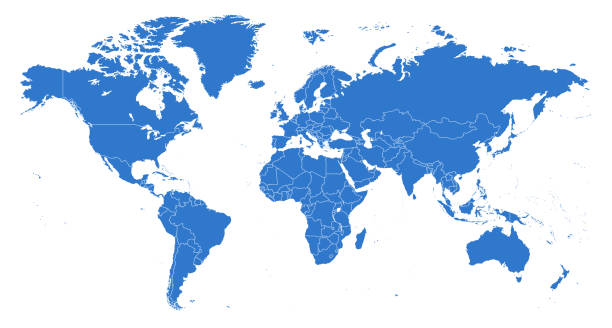
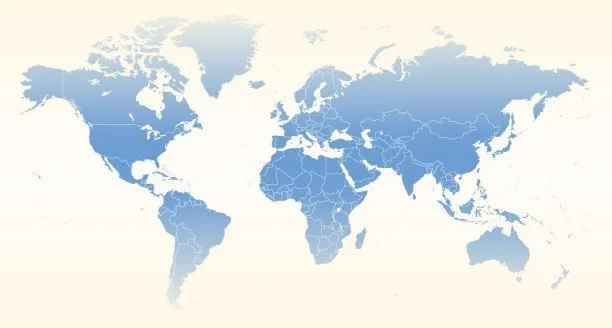
更新 0.10
新增政黨總界面並對領土界面圖片進行修改

diff --git a/subpages/parties.html b/subpages/parties.html
@@ -93,35 +93,28 @@
             
         </section>
         <section>
-            <div class="flex_container mapbg" style="height: 200px; align-items: center; justify-content: center;">
-                <h1 style="color: white; font-size: 3em; text-shadow: 2px 2px 4px #000000;">疆域 - Territory</h1>
+            <div class="flex_container parliamentbg" style="height: 200px; align-items: center; justify-content: center;">
+                <h1 style="color: white; font-size: 3em; text-shadow: 2px 2px 4px black;">政黨 - Political Parties</h1>
             </div>
             <div class="flex_container">
-                <div class="flex_column2 rounded-container">
-                    <h1 class="centered">本帝國疆域概況</h1>
-                    <h2 class="centered">本土疆域</h2>
-                    <p>
-                        N/A
-                    </p>
-                    <h2 class="centered">海外疆域</h2>
-                    <p>
-                        本帝國對外擁有多處海外領地，分布於不同洲際，以促進本帝國的國際影響力及經濟發展。這些海外領地包括：(截至西元2023年1月23日)<br>
-                        <ul>
-                            <li>大洋洲 - 陽屬袋鼠王國 (Sun's Kangaroo Kingdom, Oceania)</li>
-                            <li>北美洲 - 陽屬楊氏保護國 (Sun's Yang Protectorate, North America)</li>
-                            <li>亞洲 - 滿洲地區 (Manchurian Region, Asia)</li>
-                        </ul>
-                    </p>
-                </div>
+                <div class="flex_column2">
+                    <div class="rounded-container">
+                        <h1>簡介</h1>
+                        政黨是大陽聯合帝國民主體系中的重要組成部分，代表著不同的政治理念和政策主張。支持人民積極參與政治，通過加入適合自己意向的政黨，為國家未來發展貢獻力量。
+                    </div>
+                    <div class="rounded-container">
+                        <h2>目前正式註冊政黨</h2>
+                        <ul id="party-lists"></ul>
+                    </div>
+                    </div>
                 <div class="flex_column1 rounded-container centered">
-                    <h2>點擊圖片以放大</h2>
-                    <h1>本帝國本土疆域</h1>
-                    <img src="../images/territory.png" style="width: 100%;
-    height: auto; cursor:pointer;" onclick="window.open('../images/territory.png', '_blank');">
-                    <hr>
-                    <h1>本帝國海外疆域</h1>
-                    <img src="../images/overseas.png" style="width: 100%;
-    height: auto; cursor:pointer;" onclick="window.open('../images/overseas.png', '_blank');">
+                    <h2>如何創建政黨？</h2>
+                    <ul>
+                        <li>
+                            於國民事務中心辦理申請手續，提交政黨資料及相關文件。
+                        </li>
+
+                    </ul>
                 </div>
             </div>
         </section>

diff --git a/post.html b/post.html
@@ -1,5 +1,5 @@
-<html>
-        <head>
+<html lang="zh-TW">
+    <head>
         <!-- Setup -->
         <meta charset="UTF-8">
         <meta name="viewport" content="width=device-width, initial-scale=1.0">
@@ -13,10 +13,9 @@
 
         <!-- Javascript -->
         <script src="javascript/hyperlink.js" defer></script>
-        <script src="javascript/post.js" defer></script>
 
         <!-- Info -->
-        <title>大陽帝國</title>
+        <title>大陽聯合帝國</title>
         <link rel="icon" type="image/png" href="images/national_emblem.png">
     </head>
     <body>
@@ -76,7 +75,7 @@
                                 <button class="dropbtn">皇室</button>
                             </td>
                             <td class="dropdown">
-                                <button class="dropbtn">政黨</button>
+                                <a href="subpages/parties.html"><button class="dropbtn">政黨</button></a>
                             </td>
                             <td class="dropdown">
                                 <button class="dropbtn">法律</button>

diff --git a/forum.html b/forum.html
@@ -10,10 +10,10 @@
         <!-- CSS Stylesheets -->
         <link rel="stylesheet" href="css/general.css">
         <link rel="stylesheet" href="css/modules.css">
-        <link rel="stylesheet" href="css/forum.css">
 
         <!-- Javascript -->
         <script src="javascript/hyperlink.js" defer></script>
+
         <!-- Info -->
         <title>大陽聯合帝國</title>
         <link rel="icon" type="image/png" href="images/national_emblem.png">
@@ -75,7 +75,7 @@
                                 <button class="dropbtn">皇室</button>
                             </td>
                             <td class="dropdown">
-                                <button class="dropbtn">政黨</button>
+                                <a href="subpages/parties.html"><button class="dropbtn">政黨</button></a>
                             </td>
                             <td class="dropdown">
                                 <button class="dropbtn">法律</button>

diff --git a/index.html b/index.html
@@ -15,7 +15,7 @@
         <script src="javascript/hyperlink.js" defer></script>
 
         <!-- Info -->
-        <title>大陽帝國</title>
+        <title>大陽聯合帝國</title>
         <link rel="icon" type="image/png" href="images/national_emblem.png">
     </head>
     <body>
@@ -75,7 +75,7 @@
                                 <button class="dropbtn">皇室</button>
                             </td>
                             <td class="dropdown">
-                                <button class="dropbtn">政黨</button>
+                                <a href="subpages/parties.html"><button class="dropbtn">政黨</button></a>
                             </td>
                             <td class="dropdown">
                                 <button class="dropbtn">法律</button>

diff --git a/css/general.css b/css/general.css
@@ -1,7 +1,7 @@
 @import url('https://fonts.googleapis.com/css?family=Iansui');
 
 body {
-    background-color:#FFF8E7;
+    background-color:rgb(255, 248, 231);
 
     font-family: 'Iansui',Times;
     font-size: medium;
@@ -116,10 +116,15 @@ hr {
     background-repeat: no-repeat;
 }
 .mapbg {
-    background: white;
     background-image: url('../images/worldmap.jpg');
-    background-size: auto 100%;
-    background-position: top;
+    background-size: 100% auto;
+    background-position: center;
+    background-repeat: no-repeat;
+}
+.parliamentbg {
+    background-image: url('../images/parliament.png');
+    background-size: 100% auto;
+    background-position: center;
     background-repeat: no-repeat;
 }
 

diff --git a/README.md b/README.md
@@ -163,3 +163,7 @@
 **0.9.6 修正 29 Jan**
 
  - 修改資料收集網址來源，成功修復且使用
+
+**0.10 更新 6 Feb**
+
+ - 新增政黨總界面並對領土界面圖片進行修改

diff --git a/info/data.md b/info/data.md
@@ -8,7 +8,7 @@
 
 `image0001` = map
 
-background-color = `#FFF8E7`
+background-color = `#FFF8E7`, `255, 248, 231`
 
 永久性連結：[text](https://discord.gg/CTRNwn4aWF)
 
